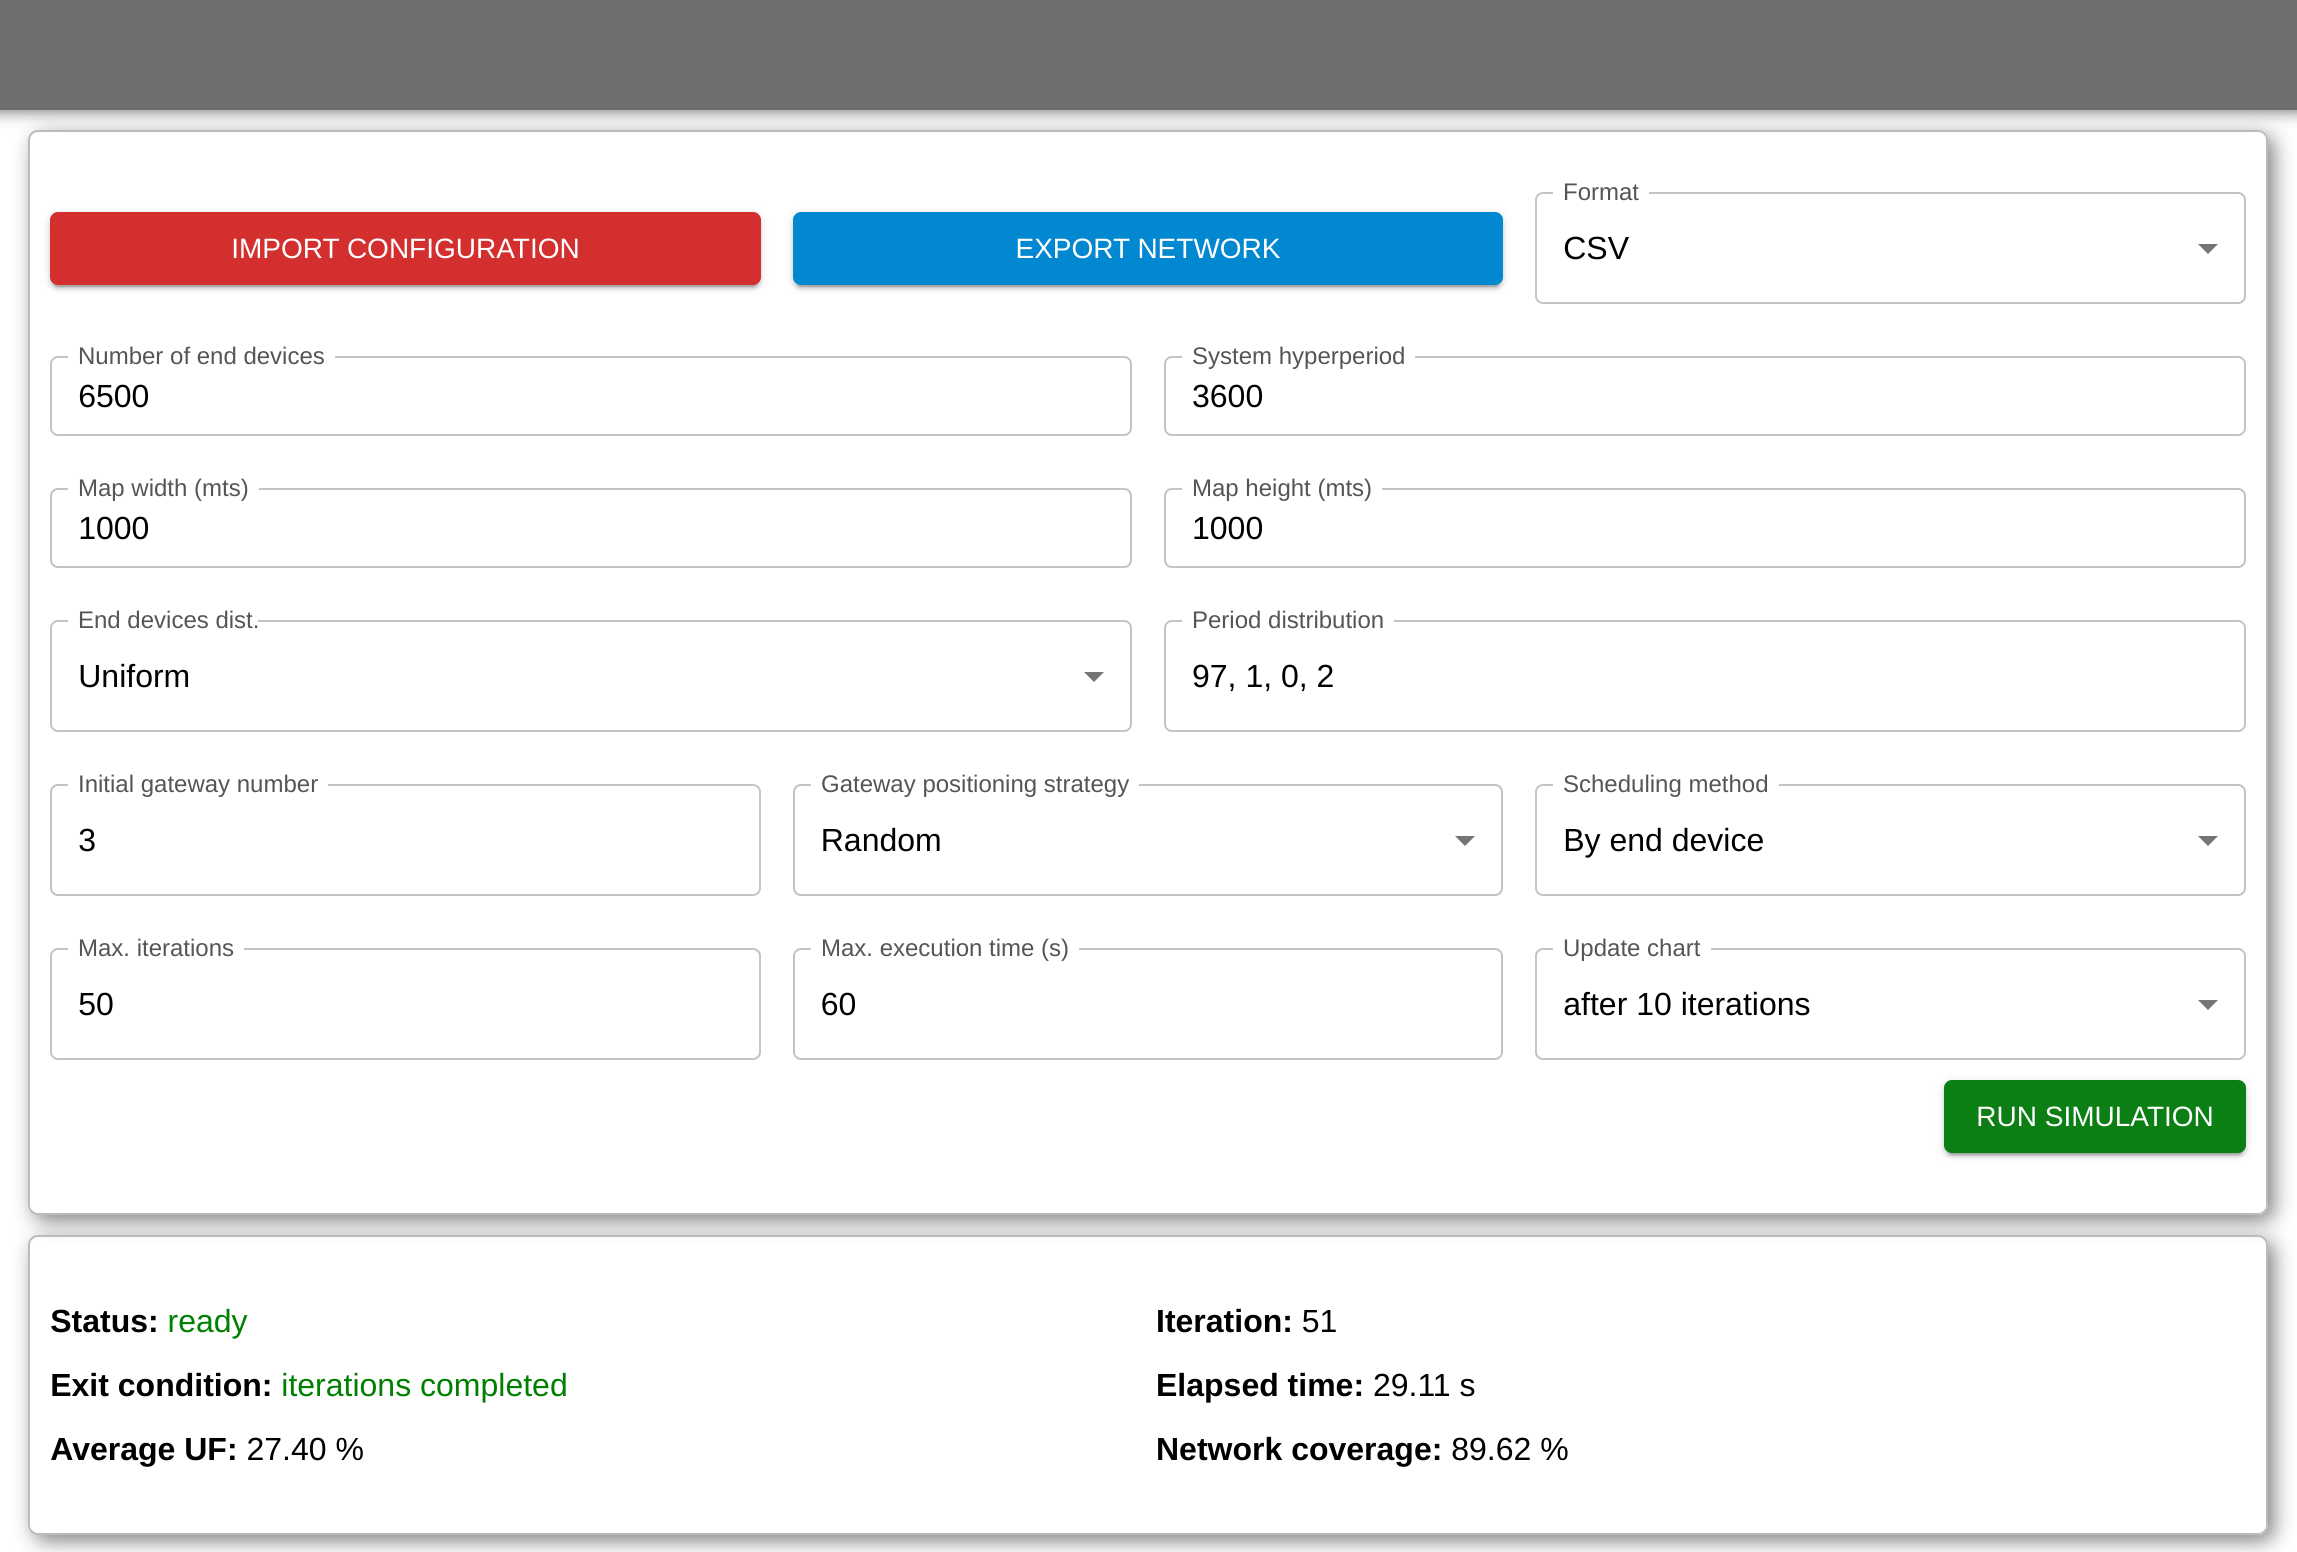
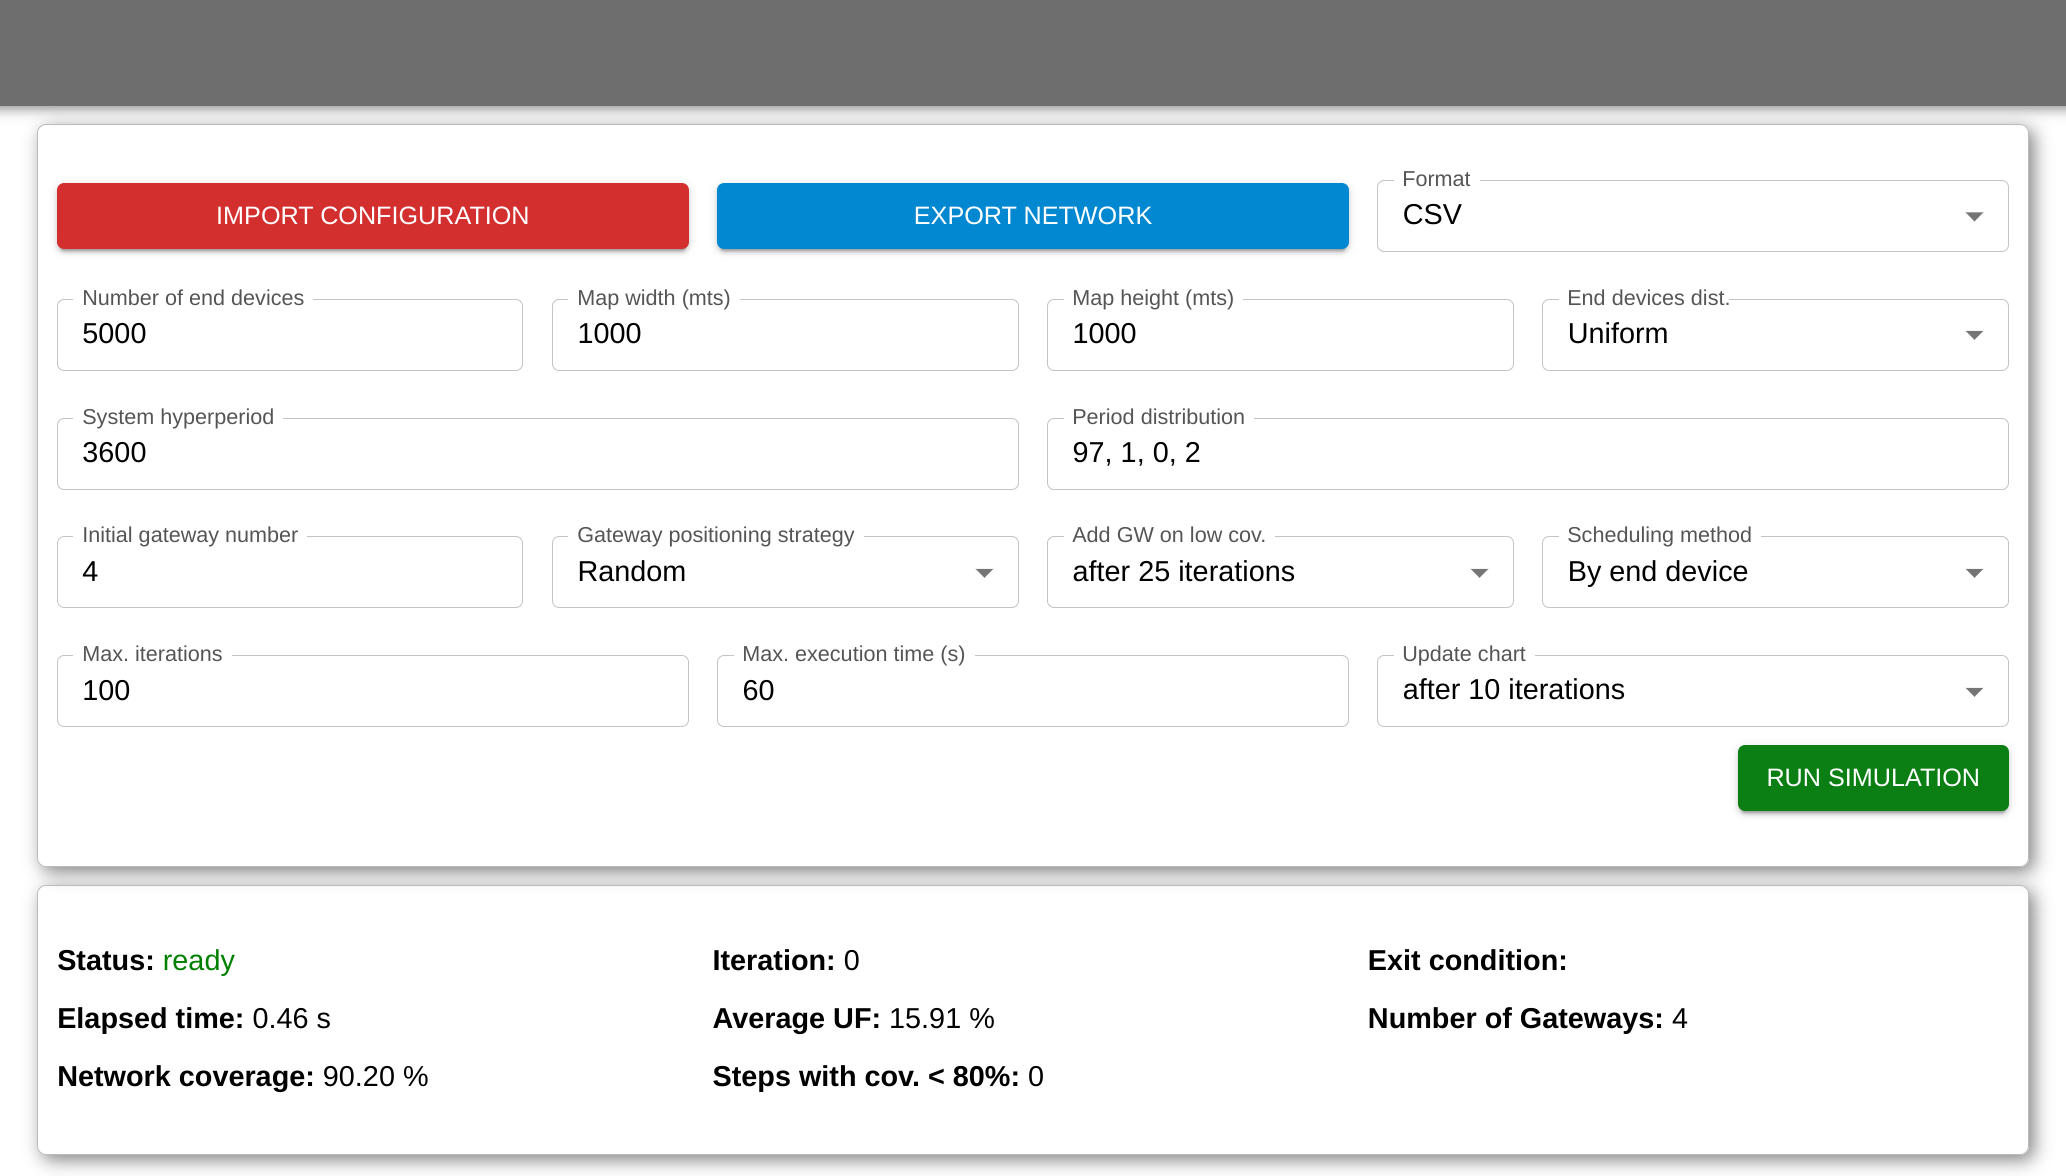
Springs model

diff --git a/src/components/ConfigForm/index.jsx b/src/components/ConfigForm/index.jsx
@@ -140,6 +140,7 @@ const ConfigForm = () => {
                             <Select                        
                                 value={format}
                                 label="Format"
+                                size="small"
                                 onChange={handleFormatChange}>
                                 <MenuItem value="csv">CSV</MenuItem>
                                 <MenuItem value="json">JSON</MenuItem>
@@ -148,8 +149,9 @@ const ConfigForm = () => {
                         </FormControl>
                     </Grid>
                 </Grid>
+
                 <Grid container spacing={2} style={{marginTop:"10px"}}>
-                    <Grid item xs={12} md={6}>
+                    <Grid item xs={12} md={6} lg={3}>
                         <TextField
                             style={{width: "100%"}}
                             value={N}
@@ -161,21 +163,7 @@ const ConfigForm = () => {
                             onChange={handleInputChange}
                             inputProps={{min:1,max:15000}}/>
                     </Grid>
-                    <Grid item xs={12} md={6}>
-                        <TextField
-                            style={{width: "100%"}} 
-                            value={H}
-                            variant="outlined"
-                            type="number"
-                            size="small"
-                            label="System hyperperiod"
-                            name="H"
-                            onChange={handleInputChange}
-                            inputProps={{min:1, max:10000}}/>
-                    </Grid>
-                </Grid>
-                <Grid container spacing={2} style={{marginTop:"10px"}}>
-                    <Grid item xs={12} md={6}>
+                    <Grid item xs={12} md={6} lg={3}>
                         <TextField
                             style={{width: "100%"}}
                             value={mapWidth}
@@ -187,7 +175,7 @@ const ConfigForm = () => {
                             onChange={handleInputChange}
                             inputProps={{min:1,max:10000}}/>
                     </Grid>
-                    <Grid item xs={12} md={6}>
+                    <Grid item xs={12} md={6} lg={3}>
                         <TextField
                             style={{width: "100%"}} 
                             value={mapHeight}
@@ -199,13 +187,14 @@ const ConfigForm = () => {
                             onChange={handleInputChange}
                             inputProps={{min:1,max:10000}}/>
                     </Grid>
-                    <Grid item xs={12} md={6}>
+                    <Grid item xs={12} md={6} lg={3}>
                         <FormControl fullWidth>
                             <InputLabel id="dist-select-label">End devices dist.</InputLabel>
                             <Select                        
                                 labelId="dist-select-label"
                                 value={posDistr}
                                 name="posDistr"
+                                size="small"
                                 onChange={handleInputChange}
                                 label="End device dist.">
                                 <MenuItem value="uniform">Uniform</MenuItem>
@@ -213,6 +202,21 @@ const ConfigForm = () => {
                                 <MenuItem value="clouds">Clouds</MenuItem>
                             </Select>
                         </FormControl>
+                    </Grid>    
+                </Grid>
+
+                <Grid container spacing={2} style={{marginTop:"10px"}}>                    
+                    <Grid item xs={12} md={6}>
+                        <TextField
+                            style={{width: "100%"}} 
+                            value={H}
+                            variant="outlined"
+                            type="number"
+                            label="System hyperperiod"
+                            name="H"
+                            size="small"
+                            onChange={handleInputChange}
+                            inputProps={{min:1, max:10000}}/>
                     </Grid>
                     <Grid item xs={12} md={6}>
                         <TextField
@@ -222,11 +226,12 @@ const ConfigForm = () => {
                             type="text"
                             label="Period distribution"
                             name="periodsDistr"
+                            size="small"
                             onChange={handleInputChange}/>
                     </Grid>
                 </Grid>
                 <Grid container spacing={2} style={{marginTop:"10px"}}>
-                    <Grid item xs={12} md={4} lg={3}>
+                    <Grid item xs={12} md={6} lg={3}>
                         <TextField
                             style={{width: "100%"}} 
                             value={initialGW}
@@ -234,10 +239,11 @@ const ConfigForm = () => {
                             type="number"
                             label="Initial gateway number"
                             name="initialGW"
+                            size="small"
                             onChange={handleInputChange}
                             inputProps={{min:1,max:16}}/>
                     </Grid>
-                    <Grid item xs={12} md={4} lg={3}>
+                    <Grid item xs={12} md={6} lg={3}>
                         <FormControl fullWidth>
                             <InputLabel id="strat-select-label">Gateway positioning strategy</InputLabel>
                             <Select                        
@@ -245,13 +251,14 @@ const ConfigForm = () => {
                                 value={strategy}
                                 label="Gateway positioning strategy"
                                 name="strategy"
+                                size="small"
                                 onChange={handleInputChange}>
                                 <MenuItem value="random">Random</MenuItem>
-                                <MenuItem value="strings">Springs</MenuItem>
+                                <MenuItem value="spring">Springs</MenuItem>
                             </Select>
                         </FormControl>
                     </Grid>
-                    <Grid item xs={12} md={4} lg={3}>
+                    <Grid item xs={12} md={6} lg={3}>
                         <FormControl fullWidth>
                             <InputLabel id="addgw-select-label">Add GW on low cov.</InputLabel>
                             <Select                        
@@ -259,7 +266,9 @@ const ConfigForm = () => {
                                 value={addGWAfter}
                                 label="Add GW on low cov."
                                 name="addGWAfter"
+                                size="small"
                                 onChange={handleInputChange}>
+                                    <MenuItem value={10}>after 10 iterations</MenuItem>
                                 <MenuItem value={25}>after 25 iterations</MenuItem>
                                 <MenuItem value={50}>after 50 iterations</MenuItem>
                                 <MenuItem value={100}>after 100 iterations</MenuItem>
@@ -267,7 +276,7 @@ const ConfigForm = () => {
                             </Select>
                         </FormControl>
                     </Grid>
-                    <Grid item xs={12} md={4} lg={3}>
+                    <Grid item xs={12} md={6} lg={3}>
                         <FormControl fullWidth>
                             <InputLabel id="strat-select-label">Scheduling method</InputLabel>
                             <Select                        
@@ -275,6 +284,7 @@ const ConfigForm = () => {
                                 value={schedulingBy}
                                 label="Scheduling method"
                                 name="schedulingBy"
+                                size="small"
                                 onChange={handleInputChange}>
                                 <MenuItem value="gw">By gateway</MenuItem>
                                 <MenuItem value="ed">By end device</MenuItem>
@@ -291,6 +301,7 @@ const ConfigForm = () => {
                             type="number"
                             label="Max. iterations"
                             name="maxIter"
+                            size="small"
                             onChange={handleInputChange}
                             inputProps={{min:1,max:1000}}/>
                     </Grid>
@@ -302,17 +313,19 @@ const ConfigForm = () => {
                             type="number"
                             label="Max. execution time (s)"
                             name="maxRuntime"
+                            size="small"
                             onChange={handleInputChange}
                             inputProps={{min:10,max:300}}/>
                     </Grid>
                     <Grid item xs={4}>
                         <FormControl fullWidth>
-                            <InputLabel id="vis-select-label">Update chart</InputLabel>
+                            <InputLabel id="vis-select-label">Update GUI</InputLabel>
                             <Select                        
                                 labelId="vis-select-label"
                                 value={updateRate}
-                                label="Update chart"
+                                label="Update GUI"
                                 name="updateRate"
+                                size="small"
                                 onChange={handleInputChange}>
                                 <MenuItem value={1}>after each iteration</MenuItem>
                                 <MenuItem value={10}>after 10 iterations</MenuItem>

diff --git a/src/components/OutputBlock/index.jsx b/src/components/OutputBlock/index.jsx
@@ -26,6 +26,7 @@ const OutputBlock = () => {
         elapsed,
         ufAvg,
         coverage,
+        coverageDiff,
         gwNum,
     } = model;
     
@@ -55,7 +56,10 @@ const OutputBlock = () => {
                     <span><b>Network coverage: </b></span> <span>{coverage?.toFixed(2)} %</span>
                 </Grid>
                 <Grid item xs={4}>
-                    <span><b>Steps with cov. &#60; 100%: </b></span> <span>{suboptimalSteps}</span>
+                    <span><b>Coverage improvement: </b></span> <span>{coverageDiff?.toFixed(2)} %</span>
+                </Grid>
+                <Grid item xs={4}>
+                    <span><b>Steps with cov. &#60; 80%: </b></span> <span>{suboptimalSteps}</span>
                 </Grid>
             </Grid>
         </div>
